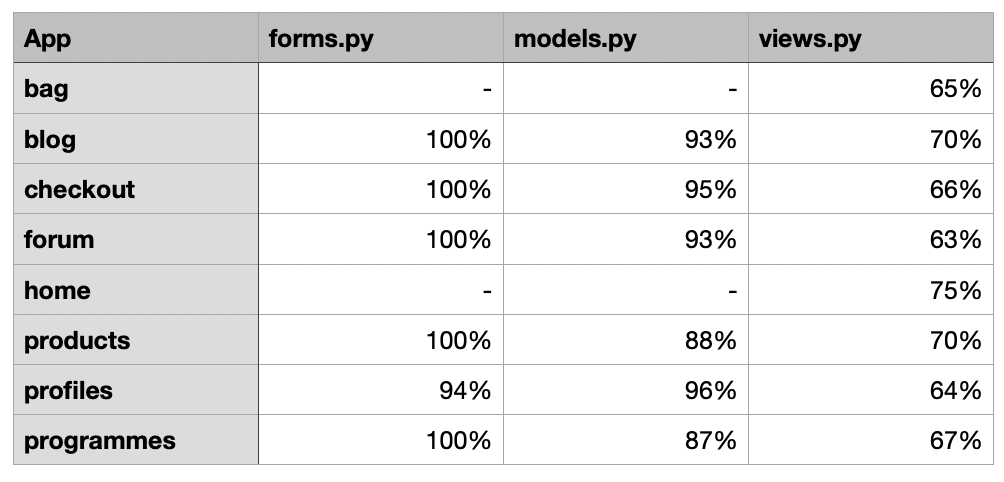
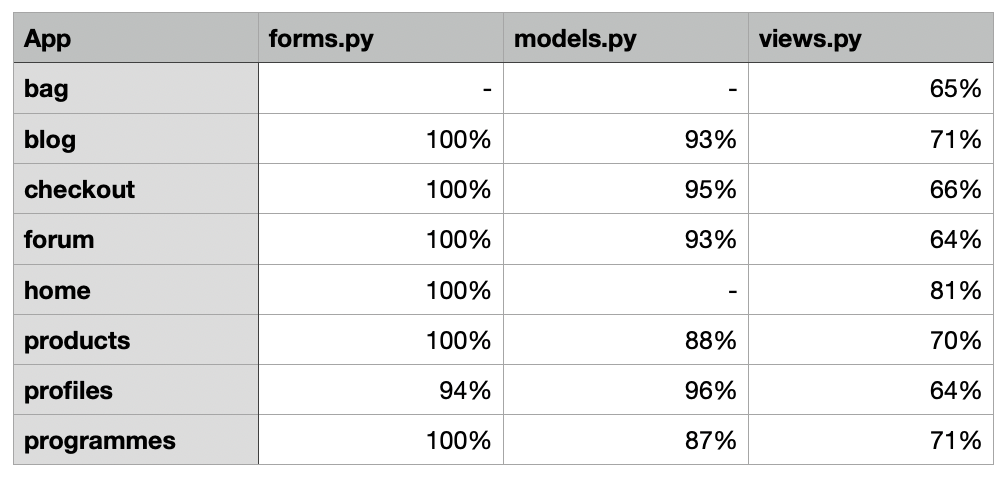
updated coverage img, updated tests table

diff --git a/testing.md b/testing.md
@@ -511,7 +511,7 @@ The results from each test were displayed in the terminal, letting me know if th
 |   [Blog](blog/tests.py)        |   Testing form fields, blog and post detail view, and sorting functionality                                                                        |
 |    [Checkout](checkout/tests.py)    |   Testing form required fields, and checkout and checkout success view                                                                             |
 |   [Forum](forum/tests.py)       |   Testing form fields, forum, thread detail, add thread and edit thread view, slugifying a thread topic, and adding a thread                       |
-|   [Home](home/tests.py)        |   Testing home, about, meet the coaches and search view                                                                                            |
+|   [Home](home/tests.py)        |   Testing home, about, meet the coaches and search view, posting message via contact form                                                                                           |
 |   [Products](products/tests.py)    |   Testing form fields, products, product detail, add product and edit product view, adding a product, and sort and filter functionality            |
 |   [Profiles](profiles/tests.py)    |   Testing profile view                                                                                                                             |
 |   [Programmes](programmes/tests.py)  |   Testing form fields, programmes, programme detail, add programme and edit programme view, adding a programme, and sort and filter functionality  |
